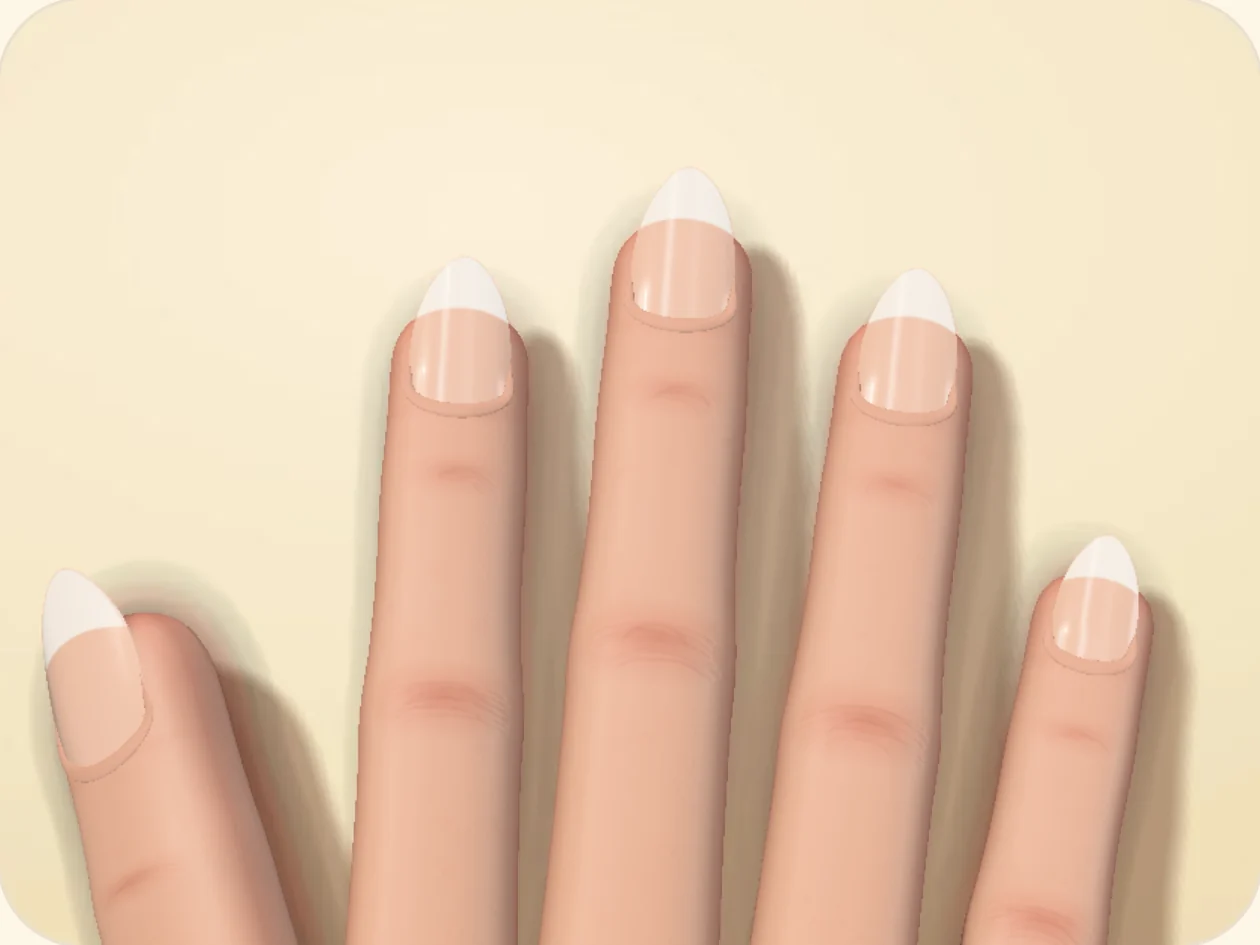
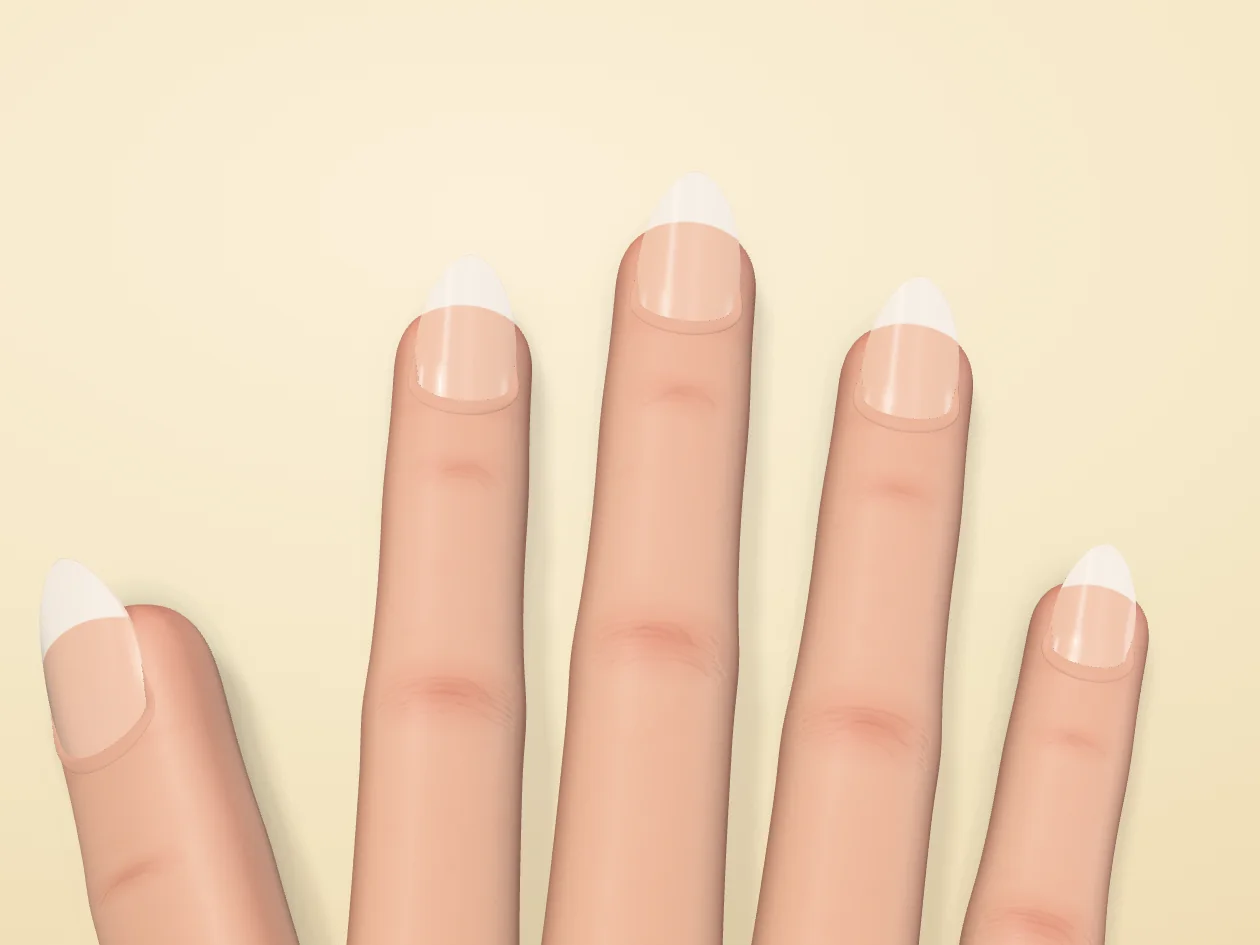
Una sola mano en el demo y en el armador, y la mano responde aunque no haya placa de video
- La sombra de la mano era rojiza al 20 % y con la luz de costado: sobre el crema se leía como una segunda mano
  color piel. Ahora es neutra, tenue y con la luz casi de frente. Demo de la home y foto de espera re-renderizadas.
- Con WebGL por software (aceleración apagada, ahorro de batería) quedaba la foto fija de la mano básica y no
  cambiaba al elegir. Ahora carga la mano 3D con el freno de calidad; sin WebGL avisa en vez de fingir.

Claude-Session: https://claude.ai/code/session_01A95QWtKrsgBJFzXWENr9Qi

diff --git a/components/builder/NailPreview.tsx b/components/builder/NailPreview.tsx
@@ -24,25 +24,26 @@ function forced3D() {
 }
 
 /**
- * ¿Hay WebGL2 con GPU de verdad? Un solo contexto de sondeo. Los renderizadores por software
- * (SwiftShader, llvmpipe, "Microsoft Basic Render") llevarían toda la página a pocos fps: ahí queda el 2D.
+ * ¿Qué WebGL2 hay? Un solo contexto de sondeo. Con un renderizador por software (SwiftShader, llvmpipe,
+ * "Microsoft Basic Render": aceleración apagada, ahorro de batería) la mano igual se carga, con el freno de
+ * calidad puesto: antes ahí quedaba la foto fija y la mano no cambiaba al elegir.
  */
-function probeWebGL2() {
-  if (typeof WebGL2RenderingContext === "undefined") return false;
+function probeWebGL2(): "gpu" | "software" | "none" {
+  if (typeof WebGL2RenderingContext === "undefined") return "none";
   try {
     const c = document.createElement("canvas");
     const gl = c.getContext("webgl2", { powerPreference: "default" });
-    if (!gl) return false;
-    let ok = true;
+    if (!gl) return "none";
+    let kind: "gpu" | "software" = "gpu";
     if (!forced3D()) {
       const ext = gl.getExtension("WEBGL_debug_renderer_info");
       const name = String(ext ? gl.getParameter(ext.UNMASKED_RENDERER_WEBGL) : gl.getParameter(gl.RENDERER));
-      if (/swiftshader|llvmpipe|softpipe|software|basic render/i.test(name)) ok = false;
+      if (/swiftshader|llvmpipe|softpipe|software|basic render/i.test(name)) kind = "software";
     }
     gl.getExtension("WEBGL_lose_context")?.loseContext();
-    return ok;
+    return kind;
   } catch {
-    return false;
+    return "none";
   }
 }
 
@@ -61,6 +62,8 @@ export function NailPreview({ sel, config }: { sel: BuilderSelection; config: Bu
   const [gen, setGen] = useState(0);
   const [hint, setHint] = useState<"off" | "on" | "gone">("off");
   const [perfGuard, setPerfGuard] = useState(true);
+  /** sin WebGL: queda la foto, con un aviso (no se hace pasar por una vista en vivo) */
+  const [noGL, setNoGL] = useState(false);
   const retries = useRef(0);
   const retryCleanup = useRef<(() => void) | null>(null);
 
@@ -76,8 +79,12 @@ export function NailPreview({ sel, config }: { sel: BuilderSelection; config: Bu
       (entries) => {
         if (!entries.some((e) => e.isIntersecting)) return;
         io.disconnect();
-        if (!probeWebGL2()) return;
-        setPerfGuard(!forced3D());
+        const gl = probeWebGL2();
+        if (gl === "none") {
+          setNoGL(true);
+          return;
+        }
+        setPerfGuard(gl === "software" || !forced3D());
         // que three no compita con la hidratación ni con el primer toque
         const go = () => setLoad3D(true);
         if (typeof window.requestIdleCallback === "function") idle = window.requestIdleCallback(go, { timeout: 300 });
@@ -133,7 +140,10 @@ export function NailPreview({ sel, config }: { sel: BuilderSelection; config: Bu
     setReady(false);
     setPosterHidden(false);
     // reintento acotado: en iOS el contexto se pierde al pasar la pestaña a segundo plano
-    if (retries.current >= 2) return;
+    if (retries.current >= 2) {
+      setNoGL(true);
+      return;
+    }
     retries.current += 1;
     const retry = () => {
       retryCleanup.current = null;
@@ -204,6 +214,11 @@ export function NailPreview({ sel, config }: { sel: BuilderSelection; config: Bu
         >
           <span aria-hidden className="size-2 rounded-full bg-bordo/70 motion-safe:animate-pulse" />
           Cargando vista 3D
+        </p>
+      )}
+      {noGL && (
+        <p className="pointer-events-none absolute top-2 right-2 left-2 rounded-md bg-cream/95 px-3 py-2 text-[11px] font-semibold text-ink sm:text-xs">
+          Tu navegador no puede mostrar la mano en 3D. Tu elección queda guardada igual: la ves en el resumen.
         </p>
       )}
       {hint !== "off" && (

diff --git a/components/three/hand/createHandScene.ts b/components/three/hand/createHandScene.ts
@@ -135,7 +135,7 @@ export function createHandScene(canvas: HTMLCanvasElement, options: HandSceneOpt
 
   /* ---------- luz ---------- */
   const key = new THREE.DirectionalLight("#ffeedb", 2.2);
-  key.position.set(-9, 6, 11).add(PIVOT);
+  key.position.set(-4, 5, 15).add(PIVOT);
   key.target.position.copy(PIVOT);
   key.castShadow = true;
   key.shadow.mapSize.set(1024, 1024);
@@ -167,7 +167,9 @@ export function createHandScene(canvas: HTMLCanvasElement, options: HandSceneOpt
   pivot.add(hand);
 
   // sombra proyectada suave (solo sombra, el fondo es el crema del contenedor)
-  const shadowMat = track(new THREE.ShadowMaterial({ color: new THREE.Color("#5b2618"), opacity: 0.2 }));
+  // Neutra, tenue y con la luz casi de frente: rojiza al 20 % y con la luz de costado, la sombra de los dedos se
+  // leía como una segunda mano color piel al lado de la primera.
+  const shadowMat = track(new THREE.ShadowMaterial({ color: new THREE.Color("#3a2a24"), opacity: 0.1 }));
   const floorGeo = track(new THREE.PlaneGeometry(40, 40));
   const floor = new THREE.Mesh(floorGeo, shadowMat);
   floor.position.set(PIVOT.x, PIVOT.y, 0);
